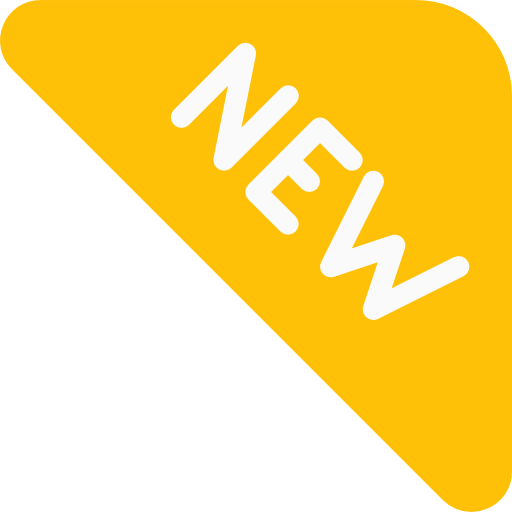
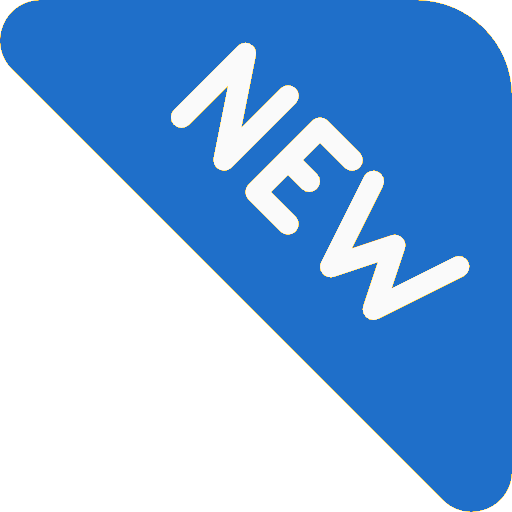
updated card label and files

diff --git a/src/pages/Ads/AdsListPage.tsx b/src/pages/Ads/AdsListPage.tsx
@@ -13,6 +13,7 @@ import InfiniteScroll from 'react-infinite-scroll-component';
 import { getAds, getAdById, getAdsByParams, getCategories, getSubCategories, getAdsByCategories, getAdsBySubCategories } from '../../services/api/ads';
 import { debounce } from '../../services/utils/debounce';
 import { ThreeDots } from 'react-loader-spinner';
+import Nouveau from '../../assets/nouveau.png';
 /* import { GiFlexibleStar } from "react-icons/gi"; */
 
 type Category = string;
@@ -364,32 +365,29 @@ export default function AdsListPage({ searchQuery }: { searchQuery: string }) {
                 }
             >
                 <div className='md:flex flex-wrap justify-between item-center gap-2 mt-8'>
-                    {items.map((event) => {
-                        return(
-                        <>
-                            <Card key={event.id} className='my-4 shadow-lg sm:w-80 sm:h-80 relative ...'>
-                                {isSameDay(new Date(event.createdAt), new Date()) && (
-                                    <img src={'../../assets/nouveau.png'} alt="new" className="w-10 h-10 absolute top-0 right-0 ..." />
-                                )}
-                                <Link to={`/ad/${event.id}`} className="link text-blue-800 text-bodyTest">
-                                    <Link to={`/edit-ad/${event.id}`} className="link text-red-800 text-bodyTest">
-                                        <CiEdit />
-                                    </Link>
-                                    <div className='flex flex-col'>
-                                        <b>
-                                            {event.title}
-                                        </b>
-                                        <i className='tracking-wider'>{event.start}</i>
-                                        <i className='flex justify-between items-center'>
-                                            {event.city} <span className='text-blue-700 font-bold'> Nbp {event.attendees}</span>
-                                        </i>
-                                        <img src={event.adPicture} alt="Ad Image" className="w-96 h-40 md:w-80 mt-2" />
-                                        <i className="flex justify-end">{format(new Date(event.startTime), "'le' dd/MM/yyyy 'à' HH'h'mm", { locale: fr })}</i>
-                                    </div>
+                    {items.map((event) => (
+                        <Card key={event.id} className='my-4 shadow-lg sm:w-80 sm:h-80 relative ...'>
+                            {isSameDay(new Date(event.createdAt), new Date()) && (
+                                <img src={Nouveau} alt="new" className="w-10 h-10 absolute top-0 right-0 ..." />
+                            )}
+                            <Link to={`/ad/${event.id}`} className="link text-blue-800 text-bodyTest">
+                                <Link to={`/edit-ad/${event.id}`} className="link text-red-800 text-bodyTest">
+                                    <CiEdit />
                                 </Link>
-                            </Card>
-                        </>
-                    )})}
+                                <div className='flex flex-col'>
+                                    <b>
+                                        {event.title}
+                                    </b>
+                                    <i className='tracking-wider'>{event.start}</i>
+                                    <i className='flex justify-between items-center'>
+                                        {event.city} <span className='text-blue-700 font-bold'> Nbp {event.attendees}</span>
+                                    </i>
+                                    <img src={event.adPicture} alt="Ad Image" className="w-96 h-40 md:w-80 mt-2" />
+                                    <i className="flex justify-end">{format(new Date(event.startTime), "'le' dd/MM/yyyy 'à' HH'h'mm", { locale: fr })}</i>
+                                </div>
+                            </Link>
+                        </Card>
+                    ))}
                 </div>
             </InfiniteScroll>
             <MapButton />

diff --git a/src/pages/Ads/AdsListPageLists.tsx b/src/pages/Ads/AdsListPageLists.tsx
@@ -16,6 +16,7 @@ import { GoogleMap, MarkerF } from "@react-google-maps/api";
 import MapConfig from '../../services/utils/MapConfig';
 import { ThreeDots } from 'react-loader-spinner';
 import axios from 'axios';
+import Nouveau from '../../assets/nouveau.png';
 /* import { GiFlexibleStar } from "react-icons/gi"; */
 
 type Category = string;
@@ -386,11 +387,11 @@ export default function AdsListPage({ searchQuery }: { searchQuery: string }) {
                                 if (searchQuery === '') { return event; }
                                 else if (event.title.toLowerCase().includes(searchQuery.toLowerCase()) || event.city.toLowerCase().includes(searchQuery.toLowerCase())) { return event }
                             })
-                            .map((event) => {                            
-                                return (
+                            .map((event) => 
+                                (
                                     <Card key={event.id} className='w-full my-4 shadow-lg relative ...'>
                                         {isSameDay(new Date(event.createdAt), new Date()) && (
-                                            <img src={'../../assets/nouveau.png'} alt="new" className="w-10 h-10 absolute top-0 right-0 ..." />
+                                            <img src={Nouveau} alt="new" className="w-10 h-10 absolute top-0 right-0 ..." />
                                         )}
                                         <Link to={`/ad/${event.id}`} className="w-full link text-blue-800 text-bodyTest">
                                             
@@ -426,7 +427,9 @@ export default function AdsListPage({ searchQuery }: { searchQuery: string }) {
                                     
                                         </Link>
                                     </Card>
-                                )})}
+                                )
+                            )
+                        }
                     </div>
                 </InfiniteScroll>
                 <MapButton />
